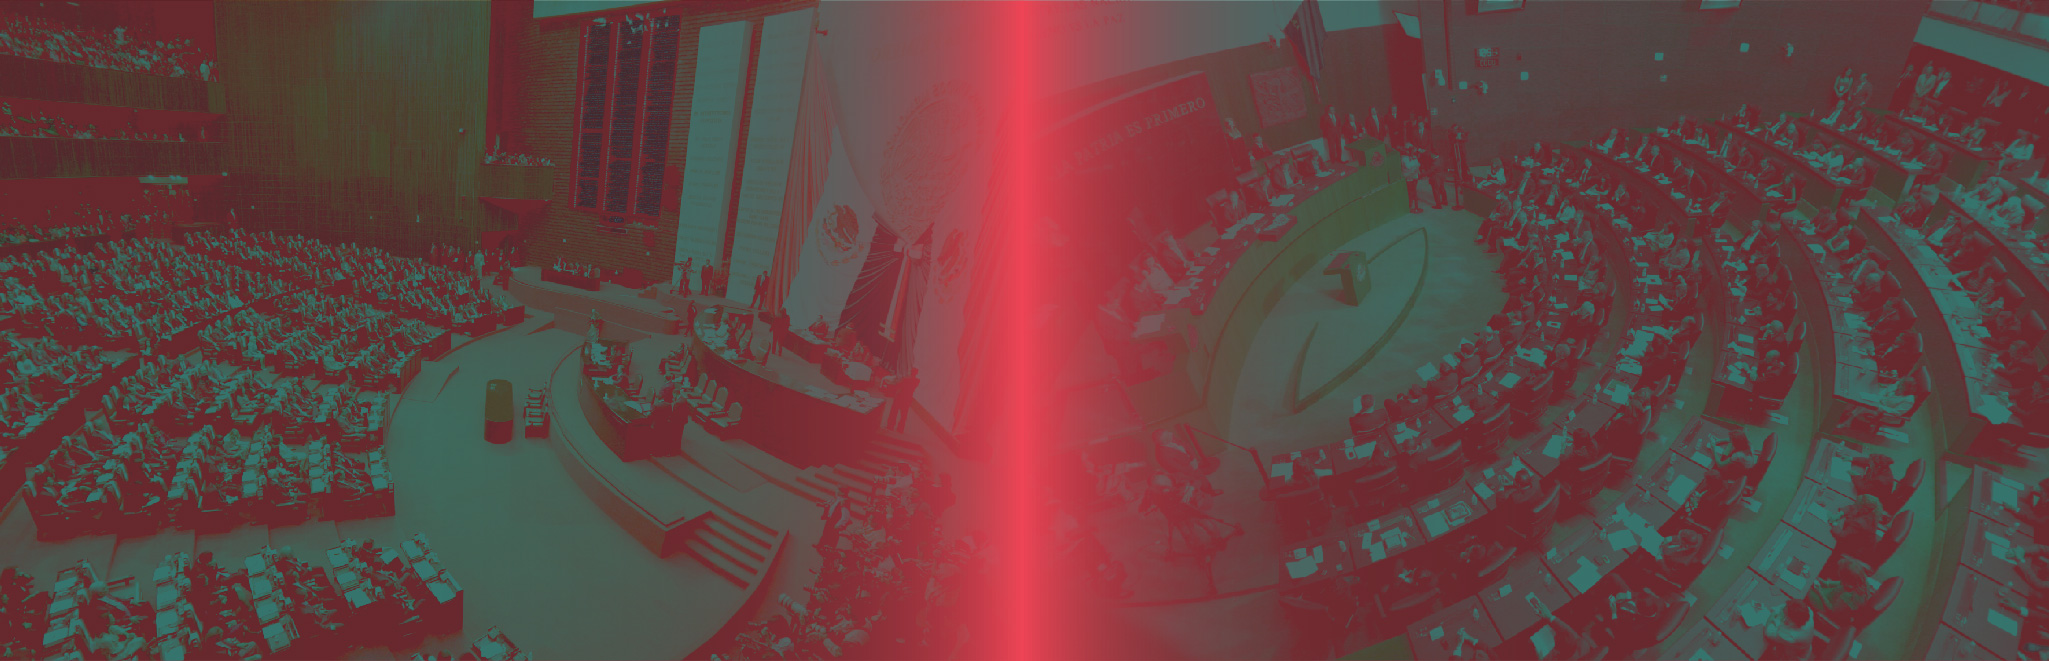
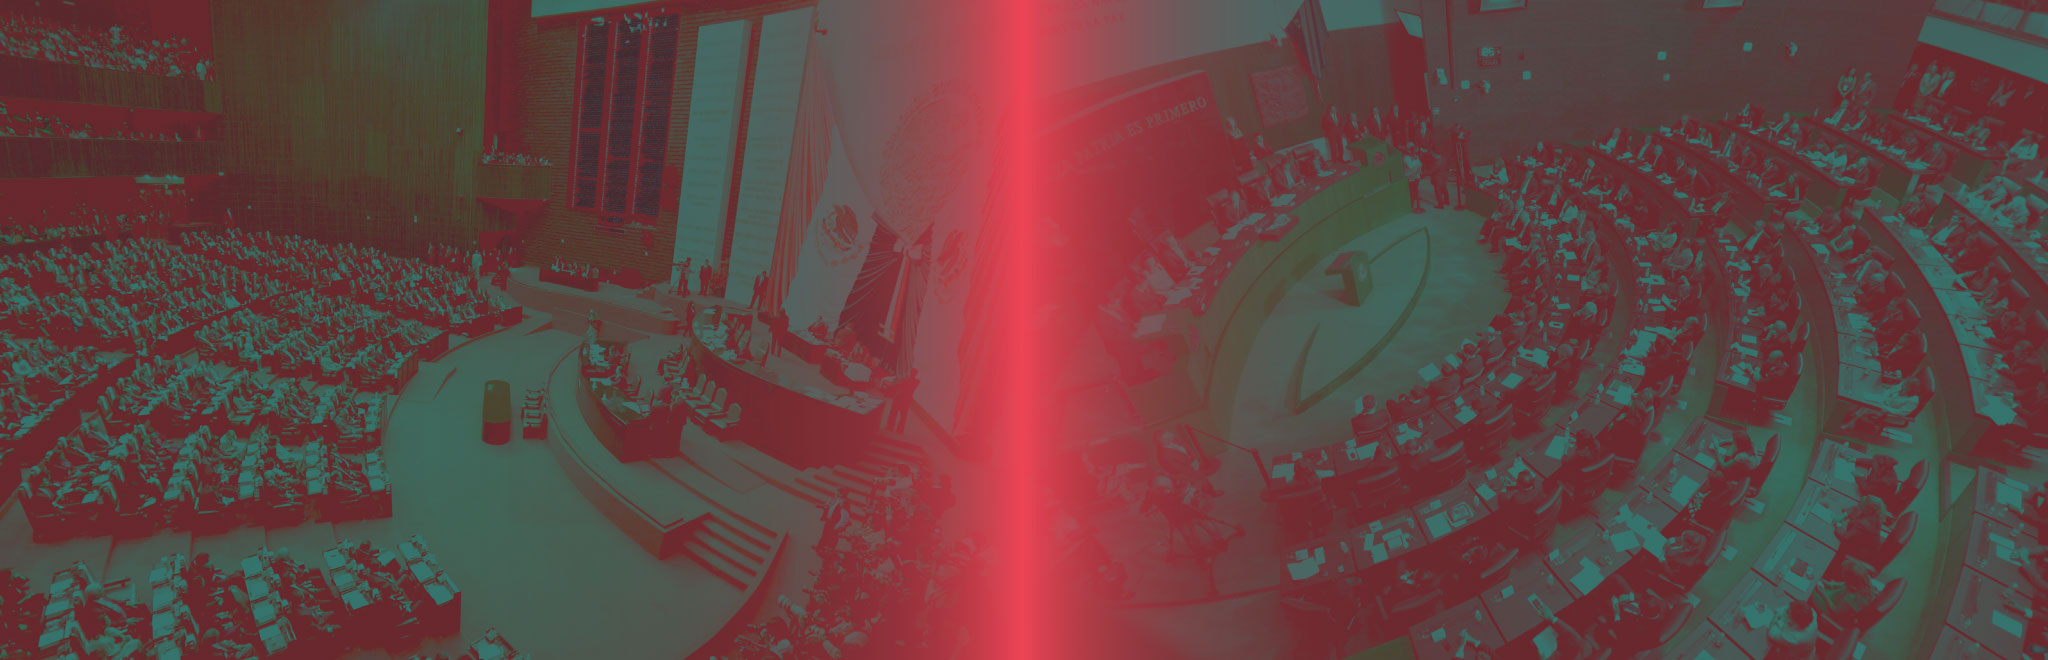
server

diff --git a/index.html b/index.html
@@ -121,8 +121,8 @@
              <span class="btn-text-one">POR PARTIDO</span>
            </div>
            <div class="color-btn" ng-controller="OpenPanelScoreController" ng-click="openPerfil($event)" flex-xs="50" flex-sm="50"  flex-md="50"  flex-offset-lg="5" flex-lg="25" flex-offset-xl="5" flex-xl="25">
-             <img class="icon-search" src="imgs/svg/search_logo.svg">
-             <span class="btn-text-one">BUSCAR LEGISLADOR</span>
+             <img class="icon-search" src="imgs/svg/states/nada.svg">
+             <span class="btn-text-one">POR ESTADO</span>
            </div>
            <div  hide-xs hide-sm hide-md flex-lg="40" flex-xl="40">
            </div>

diff --git a/css/styles_index_slide.css b/css/styles_index_slide.css
@@ -114,7 +114,7 @@
 }
 
 #slide-head-profile-dip{
-  background-image: url(../imgs/png/slide_head_dip.png);
+  background-image: url(../imgs/png/slide_head_dip.jpg);
   min-height: 650px;
   background-size: 100% 950px;
   background-attachment: fixed;
@@ -125,7 +125,7 @@
 }
 
 #slide-head-profile-sen{
-  background-image: url(../imgs/png/slide_head_dip.png);
+  background-image: url(../imgs/png/slide_head_sen.jpg);
   min-height: 250px;
   background-size: 100% 250px;
   background-attachment: fixed;
